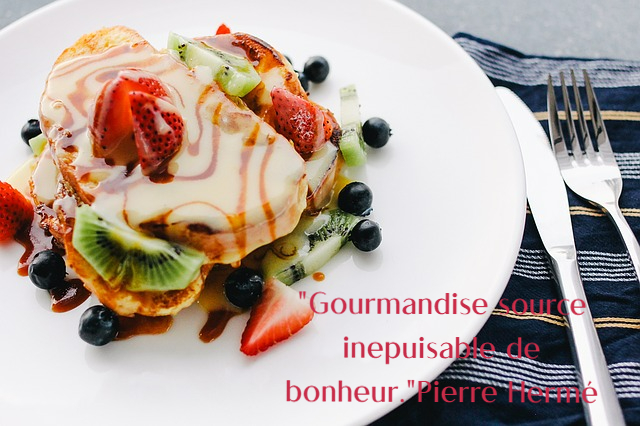
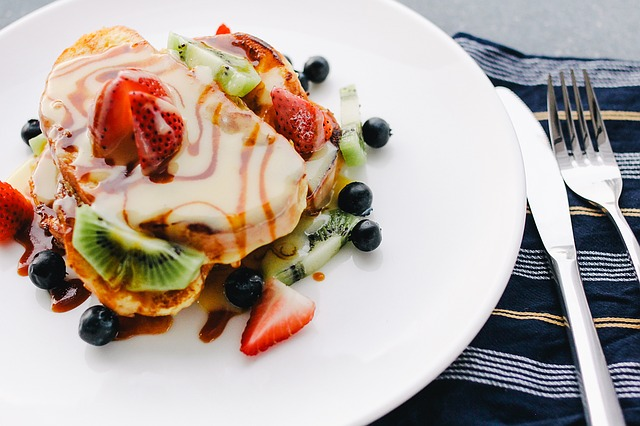
fix:ajouttext,placement

Changed region(s): [[0.4375, 0.885, 0.9375, 0.946], [0.4688, 0.6714, 0.9375, 0.7629], [0.5312, 0.7934, 0.8438, 0.8545]]

diff --git a/index.html b/index.html
@@ -1,173 +1,185 @@
 <!DOCTYPE html>
 <html lang="fr" dir="ltr">
+  <head>
+    <meta charset="UTF-8">
+    <meta http-equiv="X-UA-Compatible" content="IE=edge">
+    <meta name="viewport" content="width=device-width, initial-scale=1.0">
+    <link rel="stylesheet" href="./bootstrap.css">
+    <link rel="stylesheet" href="./style.css">
+    <link rel="preconnect" href="https://fonts.googleapis.com">
+    <link rel="preconnect" href="https://fonts.googleapis.com">
+    <link rel="preconnect" href="https://fonts.gstatic.com" crossorigin>
+    <link href="https://fonts.googleapis.com/css2?family=Style+Script&display=swap" rel="stylesheet">
+    <link rel="preconnect" href="https://fonts.googleapis.com">
+    <link rel="preconnect" href="https://fonts.gstatic.com" crossorigin>
+    <link href="https://fonts.googleapis.com/css2?family=Merienda+One&display=swap" rel="stylesheet">
+    <title> Projet SPA</title>
+  </head>
+  <body>
+    <!---- ------------------------------------------------------------------------navbar------------------------------------------------>
+    <header id="tete" class="row">
+      <div id="logo" class="col-12 col-sm-12"><img src="./images/logo 3.png" alt=""></div>
+      <div id="nav" class="col-12 col-sm-12">
+        <ul class="nav">
+          <li class="nav-item">
+            <a class="nav-link1 " href="./images/carte (1).jpg" target="_blank">Carte</a>
+          </li>
+          <li class="nav-item">
+            <a class="nav-link2 " aria-current="page" href="./images/coffee-shop-393954_1920.jpg">Accueil</a>
+          </li>
+          <li class="nav-item">
+            <a class="nav-link3 " href="./images/contact.png" target="_blank">Contact</a>
+          </li>
+        </ul>
+      </div>
+    </header id>
+    <section>
+      <!---------------------------------- Première ligne ------------------------------------------------->
+      <div id="boxa" class="row">
+        <div id="box1" class="col-12 col-sm-6">
+          <img src="./images/croissant-6562091_640 (2).jpg" alt="" border=3>
+        </div>
+        <div id="box2" class="col-12 col-sm-6">
+          <img src="./images/dessert-1246687_640 (2).jpg " alt="" border=3>
+        </div>
+      </div>
+      <div id="boxtext" class="row">
+        <div id="text1" class="col-12 col-sm-6">
+         <p>"La gourmandise est un très joli défaut"</p> 
+        </div>
+        <div id="boxtext2" class="col-12 col-sm-6">
+          <p>"Gourmandise source inépuisable de bonheur"Pierre Hermé</p>
+        </div>
+      </div>
+        <!------------------------------------------- Deuxième ligne ----------------------------------->
+      <div id="boxb" class="row">
+        <div id="box3" class="col-12 col-sm-6">
+          <img src="./images/coffee-842020_640.jpg" alt=""border=3>
+        </div>
+        <div id="box4" class="col-12 col-sm-6">
+          <p>Notre Adresse: <br>
+            Pause gourmande <br>
+            Salon de Thé <br>
+            244B rue du Point du Jour
+            <br>
+            01000 Bourg en Bresse
+            <br>
+            xxx xxx xxx
+          </p>
+        </div>
+      </div>
+      <div class="text" class="row">
+        <div class="text3" class="col-12 col-sm-6">
+          <p>"De toute les passions, la seule vraiment respectable me parait être la gourmandise"Guy de Maupassant</p>
+        </div>
+        <!------------------------------------------- Troisième ligne ----------------------------------->
+       <!-- <div id="boxc" class="row">  -->
+         <!-- <div id="box5" class="col-12 col-sm-6"> -->
+          <!-- <p>Nos Horaires:<br>Du Lundi au Samedi: <br>14h-20h <br>Consommation sur place et/ou à emporter <br>Préparations -->
+            <!-- Artisanales</p> -->
+        </div> 
+        <div id="box6" class="col-12 col-sm-6">
+          <!-- Button trigger modal -->
+          <button type="button" class="btn btn-primary" data-bs-toggle="modal" data-bs-target="#staticBackdrop">
+            Google Maps
+          </button>
 
-<head>
-  <meta charset="UTF-8">
-  <meta http-equiv="X-UA-Compatible" content="IE=edge">
-  <meta name="viewport" content="width=device-width, initial-scale=1.0">
-  <link rel="stylesheet" href="./bootstrap.css">
-  <link rel="stylesheet" href="./style.css">
-  <link rel="preconnect" href="https://fonts.googleapis.com">
-  <link rel="preconnect" href="https://fonts.googleapis.com">
-  <link rel="preconnect" href="https://fonts.gstatic.com" crossorigin>
-  <link href="https://fonts.googleapis.com/css2?family=Style+Script&display=swap" rel="stylesheet">
-  <link rel="preconnect" href="https://fonts.googleapis.com">
-  <link rel="preconnect" href="https://fonts.gstatic.com" crossorigin>
-  <link href="https://fonts.googleapis.com/css2?family=Merienda+One&display=swap" rel="stylesheet">
-  <title> Projet SPA</title>
-</head>
-
-<body>
-  <!---- ------------------------------------------------------------------------navbar------------------------------------------------>
-  <header id="tete" class="row">
-    <div id="logo" class="col-12 col-sm-12"><img src="./images/logo 3.png" alt=""></div>
-    <div id="nav" class="col-12 col-sm-12">
-      <ul class="nav">
-        <li class="nav-item">
-          <a class="nav-link1 " href="./images/carte (1).jpg" target="_blank">Carte</a>
-        </li>
-        <li class="nav-item">
-          <a class="nav-link2 " aria-current="page" href="./images/coffee-shop-393954_1920.jpg">Accueil</a>
-        </li>
-        <li class="nav-item">
-          <a class="nav-link3 " href="./images/contact.png" target="_blank">Contact</a>
-        </li>
-      </ul>
-    </div>
-  </header id>
-  <!-- police Romélio et couleur framboise photo -->
-  <section>
-    <!---------------------------------- Première ligne ------------------------------------------------->
-    <div id="boxa" class="row">
-      <div id="box1" class="col-12 col-sm-6">
-        <img src="./images/croissant-6562091_640 (1).jpg" alt="">
-      </div>
-      <div id="box2" class="col-12 col-sm-6">
-        <img src="./images/dessert-1246687_640 (2).jpg " alt="">
-      </div>
-    </div>
-      <!------------------------------------------- Deuxième ligne ----------------------------------->
-    <div id="boxb" class="row">
-      <div id="box3" class="col-12 col-sm-6">
-        <img src="./images/coffee-842020_640.jpg" alt="">
-      </div>
-      <div id="box4" class="col-12 col-sm-6">
-        <p>Notre Adresse: <br>
-          Pause gourmande <br>
-          Salon de Thé <br>
-          244B rue du Point du Jour
-          <br>
-          01000 Bourg en Bresse
-          <br>
-          xxx xxx xxx
-        </p>
-      </div>
-    </div>
-     <!------------------------------------------- Troisième ligne ----------------------------------->
-    <div id="boxc" class="row">
-      <div id="box5" class="col-12 col-sm-6">
-        <p>Nos Horaires:<br>Du Lundi au Samedi: <br>14h-20h <br>Consommation sur place et/ou à emporter <br>Préparations
-          Artisanales</p>
-      </div>
-      <div id="box6" class="col-12 col-sm-6">
-        <!-- Button trigger modal -->
-        <button type="button" class="btn btn-primary" data-bs-toggle="modal" data-bs-target="#staticBackdrop">
-          Google Maps
-        </button>
-
-        <!-- Modal -->
-        <div class="modal fade" id="staticBackdrop" data-bs-backdrop="static" data-bs-keyboard="false" tabindex="-1"
-          aria-labelledby="staticBackdropLabel" aria-hidden="true">
-          <div class="modal-dialog">
-            <div class="modal-content">
-              <div class="modal-header">
-                <h5 class="modal-title" id="staticBackdropLabel">Pause Gourmande</h5>
-                <button type="button" class="btn-close" data-bs-dismiss="modal" aria-label="Close"></button>
-              </div>
-              <div class="modal-body">
-                <iframe
-                  src="https://www.google.com/maps/embed?pb=!1m14!1m8!1m3!1d11044.437612948708!2d5.2002043!3d46.2082786!3m2!1i1024!2i768!4f13.1!3m3!1m2!1s0x0%3A0xa21cda6ac9796fea!2sOnlineformapro!5e0!3m2!1sfr!2sfr!4v1630617162356!5m2!1sfr!2sfr"
-                  width="450" height="450" style="border:0;" allowfullscreen="" loading="lazy">
-                </iframe>
+          <!-- Modal -->
+          <div class="modal fade" id="staticBackdrop" data-bs-backdrop="static" data-bs-keyboard="false" tabindex="-1"
+            aria-labelledby="staticBackdropLabel" aria-hidden="true">
+            <div class="modal-dialog">
+              <div class="modal-content">
+                <div class="modal-header">
+                  <h5 class="modal-title" id="staticBackdropLabel">Pause Gourmande</h5>
+                  <button type="button" class="btn-close" data-bs-dismiss="modal" aria-label="Close"></button>
+                </div>
+                <div class="modal-body">
+                  <iframe
+                    src="https://www.google.com/maps/embed?pb=!1m14!1m8!1m3!1d11044.437612948708!2d5.2002043!3d46.2082786!3m2!1i1024!2i768!4f13.1!3m3!1m2!1s0x0%3A0xa21cda6ac9796fea!2sOnlineformapro!5e0!3m2!1sfr!2sfr!4v1630617162356!5m2!1sfr!2sfr"
+                    width="450" height="450" style="border:0;" allowfullscreen="" loading="lazy">
+                  </iframe>
+                </div>
               </div>
             </div>
           </div>
         </div>
       </div>
+    </section>
+    <!---------------------------------------------------------------quatrième ligne --------------------------------------------->
+    <div id="boxc" class="row"> 
+      <div id="box5" class="col-12 col-sm-6">
+       <p>Nos Horaires:<br>Du Lundi au Samedi: <br>14h-20h <br>Consommation sur place et/ou à emporter <br>Préparations
+         Artisanales</p>
+     </div> 
+      <div id="musique" class="col-12 col-sm-6">
+      <p class="ambiance">Notre Ambiance:</p>
+      <audio src="./images/summertime-dreamy-piano-ballad-1141.mp3" controls loop></audio><a href=""></a>
     </div>
-    </div>
-  </section>
-  <!---------------------------------------------------------------quatrième ligne --------------------------------------------->
-  <div class="musique">
-    <p class="ambiance">Notre Ambiance:</p>
-    <audio src="./images/summertime-dreamy-piano-ballad-1141.mp3" controls loop></audio><a href=""></a>
-  </div>
-  <!------------------------------------------------------footer----------------------------------------------------------------------->
-  <footer id="footer" class="footer">
-    <h1>Pause Gourmande</h1>
-    <H1>Salon de Thé</H1>
-    <p>Paiements acceptés: <br>carte bleue,chèque, espèce,ticket restaurant</p>
-    <div class="paiements">
-      <div class="carte">
-        <img src="./images/iconmonstr-credit-card-14-48.png" alt="">
+    <!------------------------------------------------------footer----------------------------------------------------------------------->
+    <footer id="footer" class="footer">
+      <h1>Pause Gourmande</h1>
+      <H1>Salon de Thé</H1>
+      <p>Paiements acceptés: <br>carte bleue,chèque, espèce,ticket restaurant</p>
+      <div class="paiements">
+        <div class="carte">
+          <img src="./images/iconmonstr-credit-card-14-48.png" alt="">
+        </div>
+        <div class="cheque">
+          <img src="./images/iconmonstr-banknote-15-48.png" alt="">
+        </div>
       </div>
-      <div class="cheque">
-        <img src="./images/iconmonstr-banknote-15-48.png" alt="">
-      </div>
-    </div>
-    <!-- Button trigger modal -->
-    <button type="button" class="btn btn-primary" data-bs-toggle="modal" data-bs-target="#staticBackdrop1">
-      Mentions Légales
-    </button>
+      <!-- Button trigger modal -->
+      <button type="button" class="btn btn-primary" data-bs-toggle="modal" data-bs-target="#staticBackdrop1">
+        Mentions Légales
+      </button>
 
-    <!-- Modal -->
-    <div class="modal fade" id="staticBackdrop1" data-bs-backdrop="static" data-bs-keyboard="false" tabindex="-1"
-      aria-labelledby="staticBackdropLabel" aria-hidden="true">
-      <div class="modal-dialog">
-        <div class="modal-content">
-          <div class="modal-header">
-            <h5 class="modal-title" id="staticBackdropLabel">Pause Gourmande</h5>
-            <button type="button" class="btn-close" data-bs-dismiss="modal" aria-label="Close"></button>
-          </div>
-          <div class="modal-body">
-            Lorem ipsum dolor sit amet consectetur adipisicing elit. Dolorem, repellat eius dolores repellendus, at
-            distinctio voluptatibus ex amet animi blanditiis rerum temporibus expedita provident minima iure, a culpa
-            iste dolor?
+      <!-- Modal -->
+      <div class="modal fade" id="staticBackdrop1" data-bs-backdrop="static" data-bs-keyboard="false" tabindex="-1"
+        aria-labelledby="staticBackdropLabel" aria-hidden="true">
+        <div class="modal-dialog">
+          <div class="modal-content">
+            <div class="modal-header">
+              <h5 class="modal-title" id="staticBackdropLabel">Pause Gourmande</h5>
+              <button type="button" class="btn-close" data-bs-dismiss="modal" aria-label="Close"></button>
+            </div>
+            <div class="modal-body">
+              Lorem ipsum dolor sit amet consectetur adipisicing elit. Dolorem, repellat eius dolores repellendus, at
+              distinctio voluptatibus ex amet animi blanditiis rerum temporibus expedita provident minima iure, a culpa
+              iste dolor?
+            </div>
           </div>
         </div>
       </div>
-    </div>
-    <div class="reseaux">
-      <a href="https://fr-fr.facebook.com/">
-        <svg xmlns="http://www.w3.org/2000/svg" width="30" height="30" fill="currentColor" class="bi bi-facebook"
-          viewBox="0 0 16 16">
-          <path
-            d="M16 8.049c0-4.446-3.582-8.05-8-8.05C3.58 0-.002 3.603-.002 8.05c0 4.017 2.926 7.347 6.75 7.951v-5.625h-2.03V8.05H6.75V6.275c0-2.017 1.195-3.131 3.022-3.131.876 0 1.791.157 1.791.157v1.98h-1.009c-.993 0-1.303.621-1.303 1.258v1.51h2.218l-.354 2.326H9.25V16c3.824-.604 6.75-3.934 6.75-7.951z"
-            class="facebook" />
-        </svg>
-      </a>
-      <a href="https://www.instagram.com/?hl=fr">
-        <svg xmlns="http://www.w3.org/2000/svg" width="30" height="30"
-          fill="currentColor" class="bi bi-instagram" viewBox="0 0 16 16">
-          <path
-            d="M8 0C5.829 0 5.556.01 4.703.048 3.85.088 3.269.222 2.76.42a3.917 3.917 0 0 0-1.417.923A3.927 3.927 0 0 0 .42 2.76C.222 3.268.087 3.85.048 4.7.01 5.555 0 5.827 0 8.001c0 2.172.01 2.444.048 3.297.04.852.174 1.433.372 1.942.205.526.478.972.923 1.417.444.445.89.719 1.416.923.51.198 1.09.333 1.942.372C5.555 15.99 5.827 16 8 16s2.444-.01 3.298-.048c.851-.04 1.434-.174 1.943-.372a3.916 3.916 0 0 0 1.416-.923c.445-.445.718-.891.923-1.417.197-.509.332-1.09.372-1.942C15.99 10.445 16 10.173 16 8s-.01-2.445-.048-3.299c-.04-.851-.175-1.433-.372-1.941a3.926 3.926 0 0 0-.923-1.417A3.911 3.911 0 0 0 13.24.42c-.51-.198-1.092-.333-1.943-.372C10.443.01 10.172 0 7.998 0h.003zm-.717 1.442h.718c2.136 0 2.389.007 3.232.046.78.035 1.204.166 1.486.275.373.145.64.319.92.599.28.28.453.546.598.92.11.281.24.705.275 1.485.039.843.047 1.096.047 3.231s-.008 2.389-.047 3.232c-.035.78-.166 1.203-.275 1.485a2.47 2.47 0 0 1-.599.919c-.28.28-.546.453-.92.598-.28.11-.704.24-1.485.276-.843.038-1.096.047-3.232.047s-2.39-.009-3.233-.047c-.78-.036-1.203-.166-1.485-.276a2.478 2.478 0 0 1-.92-.598 2.48 2.48 0 0 1-.6-.92c-.109-.281-.24-.705-.275-1.485-.038-.843-.046-1.096-.046-3.233 0-2.136.008-2.388.046-3.231.036-.78.166-1.204.276-1.486.145-.373.319-.64.599-.92.28-.28.546-.453.92-.598.282-.11.705-.24 1.485-.276.738-.034 1.024-.044 2.515-.045v.002zm4.988 1.328a.96.96 0 1 0 0 1.92.96.96 0 0 0 0-1.92zm-4.27 1.122a4.109 4.109 0 1 0 0 8.217 4.109 4.109 0 0 0 0-8.217zm0 1.441a2.667 2.667 0 1 1 0 5.334 2.667 2.667 0 0 1 0-5.334z"
-            class="instagram" />
-        </svg>
-      </a>
-      <img class="wifi" src="./images/iconmonstr-wireless-1-48.png" alt="">
-    </div>
-    <div class="online">
-      <p>2021 <span>Online</span></p>
-    </div>
-    <div id="remonte">
-      <a href="#tete">
-        <img src="./images/iconmonstr-angel-up-thin-48.png" alt="">
-      </a>
-    </div>
-  </footer>
-  <script src="https://cdn.jsdelivr.net/npm/bootstrap@5.1.1/dist/js/bootstrap.bundle.min.js"
-    integrity="sha384-/bQdsTh/da6pkI1MST/rWKFNjaCP5gBSY4sEBT38Q/9RBh9AH40zEOg7Hlq2THRZ"
-    crossorigin="anonymous"></script>
-</body>
-
+      <div class="reseaux">
+        <a href="https://fr-fr.facebook.com/">
+          <svg xmlns="http://www.w3.org/2000/svg" width="30" height="30" fill="currentColor" class="bi bi-facebook"
+            viewBox="0 0 16 16">
+            <path
+              d="M16 8.049c0-4.446-3.582-8.05-8-8.05C3.58 0-.002 3.603-.002 8.05c0 4.017 2.926 7.347 6.75 7.951v-5.625h-2.03V8.05H6.75V6.275c0-2.017 1.195-3.131 3.022-3.131.876 0 1.791.157 1.791.157v1.98h-1.009c-.993 0-1.303.621-1.303 1.258v1.51h2.218l-.354 2.326H9.25V16c3.824-.604 6.75-3.934 6.75-7.951z"
+              class="facebook" />
+          </svg>
+        </a>
+        <a href="https://www.instagram.com/?hl=fr">
+          <svg xmlns="http://www.w3.org/2000/svg" width="30" height="30"
+            fill="currentColor" class="bi bi-instagram" viewBox="0 0 16 16">
+            <path
+              d="M8 0C5.829 0 5.556.01 4.703.048 3.85.088 3.269.222 2.76.42a3.917 3.917 0 0 0-1.417.923A3.927 3.927 0 0 0 .42 2.76C.222 3.268.087 3.85.048 4.7.01 5.555 0 5.827 0 8.001c0 2.172.01 2.444.048 3.297.04.852.174 1.433.372 1.942.205.526.478.972.923 1.417.444.445.89.719 1.416.923.51.198 1.09.333 1.942.372C5.555 15.99 5.827 16 8 16s2.444-.01 3.298-.048c.851-.04 1.434-.174 1.943-.372a3.916 3.916 0 0 0 1.416-.923c.445-.445.718-.891.923-1.417.197-.509.332-1.09.372-1.942C15.99 10.445 16 10.173 16 8s-.01-2.445-.048-3.299c-.04-.851-.175-1.433-.372-1.941a3.926 3.926 0 0 0-.923-1.417A3.911 3.911 0 0 0 13.24.42c-.51-.198-1.092-.333-1.943-.372C10.443.01 10.172 0 7.998 0h.003zm-.717 1.442h.718c2.136 0 2.389.007 3.232.046.78.035 1.204.166 1.486.275.373.145.64.319.92.599.28.28.453.546.598.92.11.281.24.705.275 1.485.039.843.047 1.096.047 3.231s-.008 2.389-.047 3.232c-.035.78-.166 1.203-.275 1.485a2.47 2.47 0 0 1-.599.919c-.28.28-.546.453-.92.598-.28.11-.704.24-1.485.276-.843.038-1.096.047-3.232.047s-2.39-.009-3.233-.047c-.78-.036-1.203-.166-1.485-.276a2.478 2.478 0 0 1-.92-.598 2.48 2.48 0 0 1-.6-.92c-.109-.281-.24-.705-.275-1.485-.038-.843-.046-1.096-.046-3.233 0-2.136.008-2.388.046-3.231.036-.78.166-1.204.276-1.486.145-.373.319-.64.599-.92.28-.28.546-.453.92-.598.282-.11.705-.24 1.485-.276.738-.034 1.024-.044 2.515-.045v.002zm4.988 1.328a.96.96 0 1 0 0 1.92.96.96 0 0 0 0-1.92zm-4.27 1.122a4.109 4.109 0 1 0 0 8.217 4.109 4.109 0 0 0 0-8.217zm0 1.441a2.667 2.667 0 1 1 0 5.334 2.667 2.667 0 0 1 0-5.334z"
+              class="instagram" />
+          </svg>
+        </a>
+        <img class="wifi" src="./images/iconmonstr-wireless-1-48.png" alt="">
+      </div>
+      <div class="online">
+        <p>2021 <span>Online</span></p>
+      </div>
+      <div id="remonte">
+        <a href="#tete">
+          <img src="./images/iconmonstr-angel-up-thin-48.png" alt="">
+        </a>
+      </div>
+    </footer>
+    <script src="https://cdn.jsdelivr.net/npm/bootstrap@5.1.1/dist/js/bootstrap.bundle.min.js"
+      integrity="sha384-/bQdsTh/da6pkI1MST/rWKFNjaCP5gBSY4sEBT38Q/9RBh9AH40zEOg7Hlq2THRZ"
+      crossorigin="anonymous"></script>
+  </body>
 </html>

diff --git a/style.css b/style.css
@@ -2,7 +2,6 @@ body{
     background-image: linear-gradient(to top, #e6b980 0%, #eacda3 100%);
     margin: 0; 
     padding: 0;
-
     font-family:'Style Script',cursive ;
 }
 /* écriture  texte */
@@ -55,13 +54,13 @@ a{
 }
 /* position nav */
 .nav-link1{
-    position: relative;
-    right: 240px;
+    /* position: relative; */
+    /* right: 240px; */
     padding-right: 10px;
 }
 .nav-link3{
-    position: relative;
-    left: 240px;
+    /* position: relative; */
+    /* left: 240px; */
     padding-left: 10px;
 }
 #nav{
